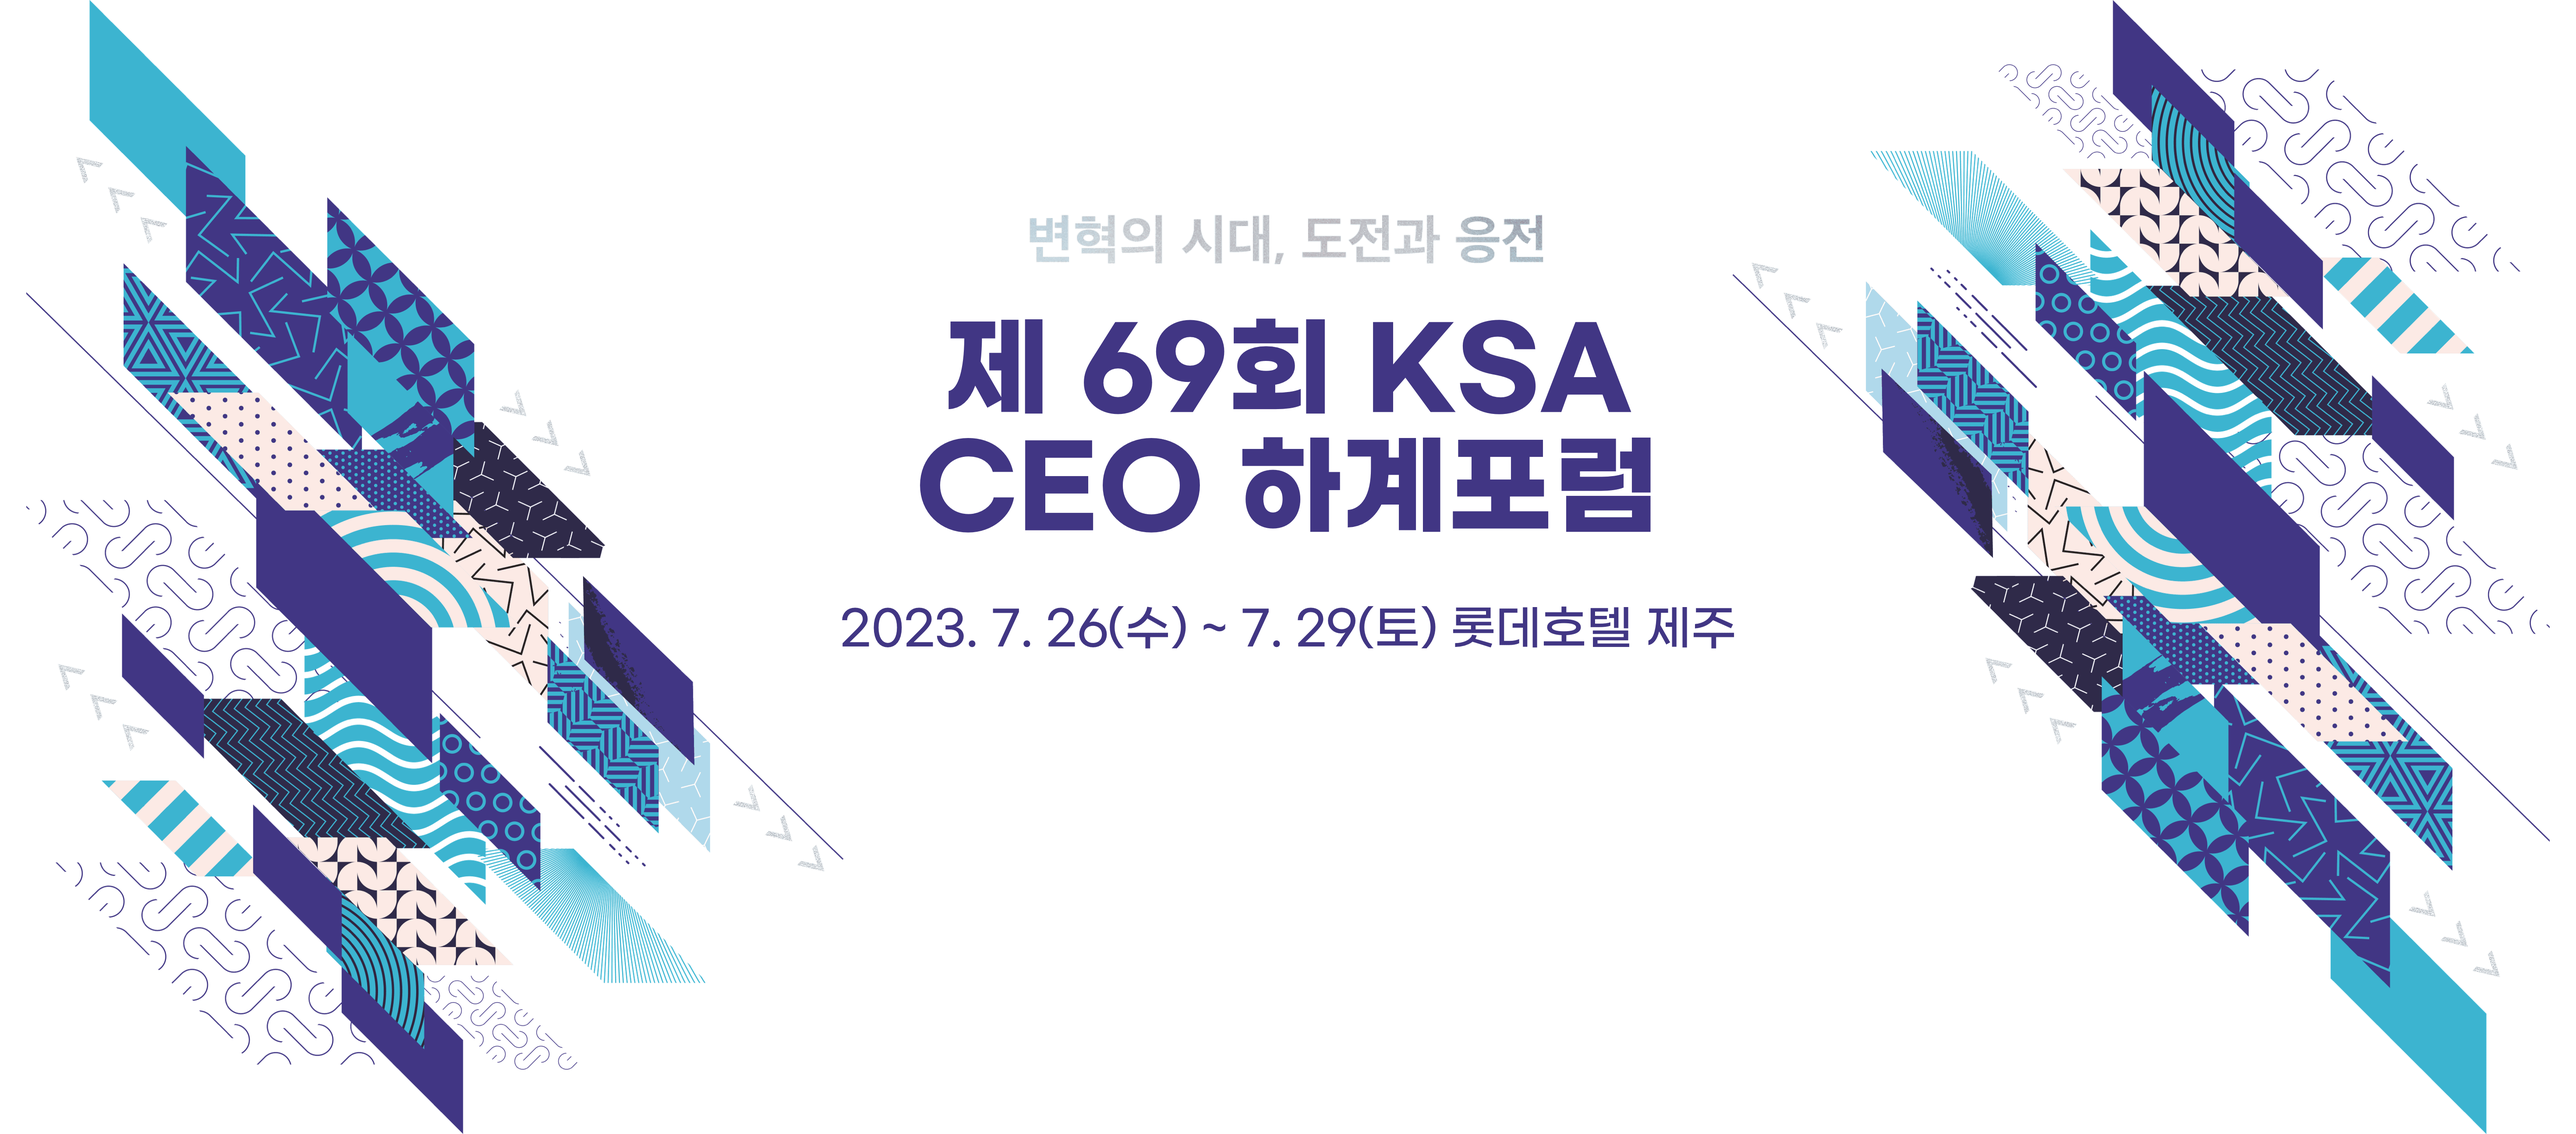
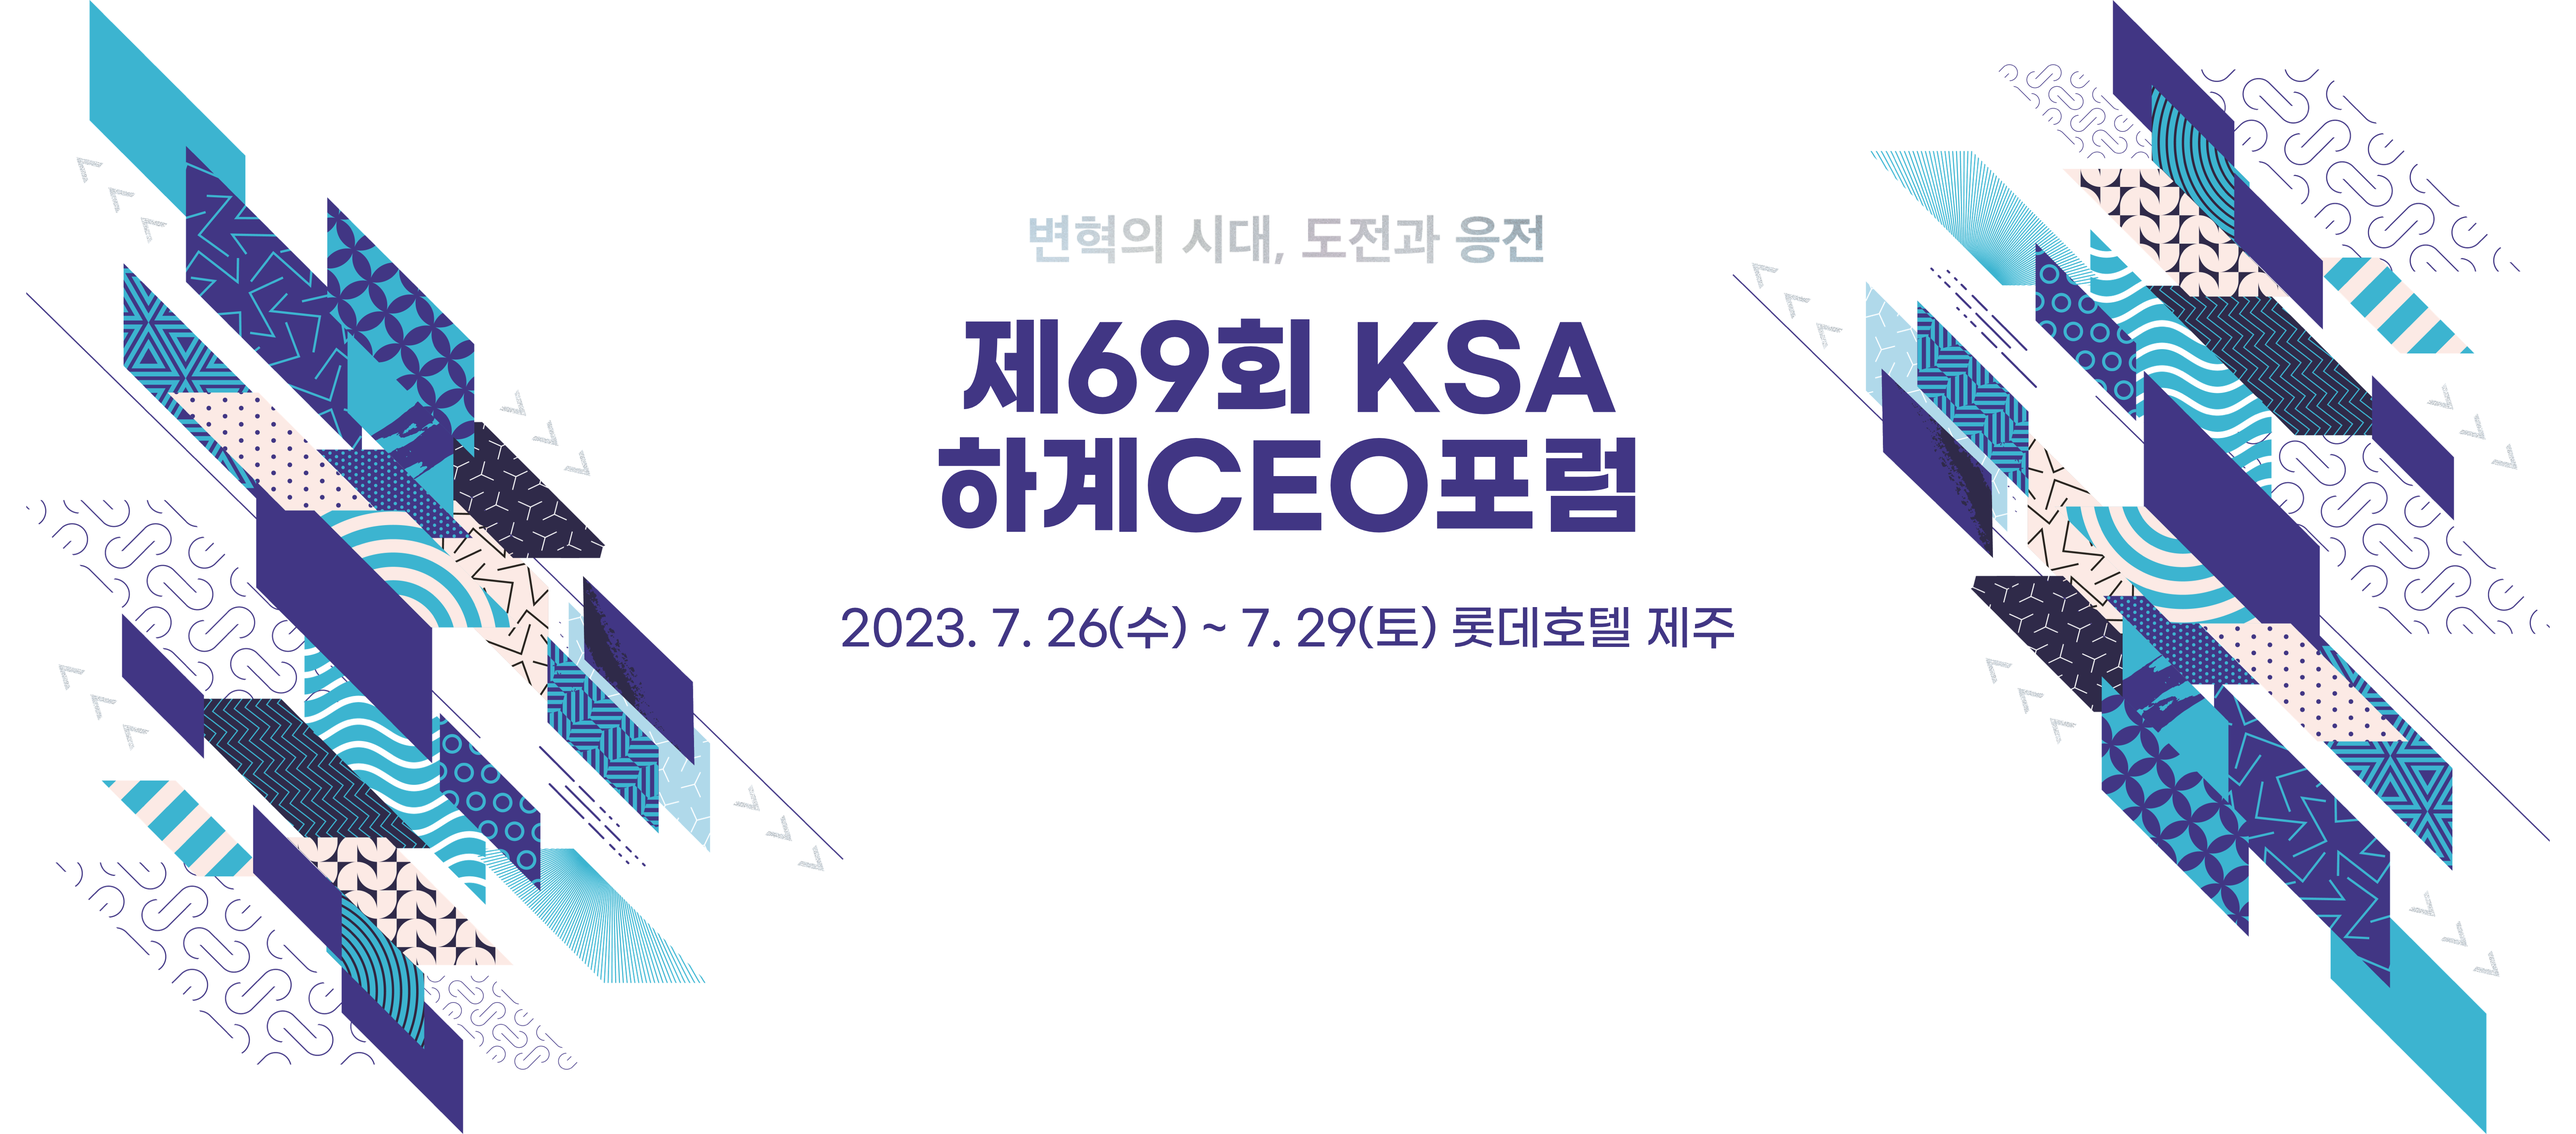
MICE-3970 #time 10m 메인 이미지 변경

Changed region(s): [[0.3423, 0.2781, 0.6536, 0.4944]]

diff --git a/Information.html b/Information.html
@@ -991,7 +991,7 @@
             
             $(document.forms).on("submit", (event) => {
                 event.preventDefault();
-                if ($("input[name='friendly']:checked").length <= 0) { alert("교류회를 선택해주세요.") }
+                if ($("input[name='friendly']:checked").length <= 0) { alert("KSA회원사 여부를 선택해주세요.") }
                 else if (pw_confirm === false || pw_regex_confirm === false) { 
                     alert("비밀번호를 확인해 주세요") 
                 }
@@ -1416,7 +1416,7 @@
             //----------------------------------------------------정보 전송 (Mobile)------------------------------------------------------
             $(document.forms).on("submit", (event) => {
                 event.preventDefault();
-                if ($("input[name='mobile']:checked").length <= 0) { alert("교류회를 선택해주세요.") }
+                if ($("input[name='mobile']:checked").length <= 0) { alert("KSA회원사 여부를 선택해주세요.") }
                 else if (pw_confirm === false || pw_regex_confirm === false) { 
                     alert("비밀번호를 확인해 주세요") 
                 } else if (jumin_check === false || (jumin_fam_check === false && jumin_fam_check !== "")) {

diff --git a/InformationConfirm.html b/InformationConfirm.html
@@ -414,7 +414,6 @@
                             }
                         }
 
-                        // 변환할 HTML 요소 선택
                         const element = $("[data-print_wrap]");
                         $(document).on("click", "[data-print_btn]", function () {
                             html2canvas(element[0]).then(canvas => {
